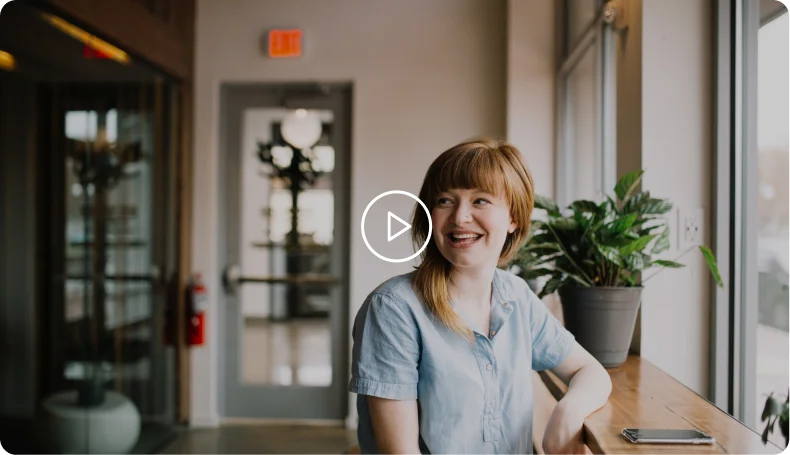
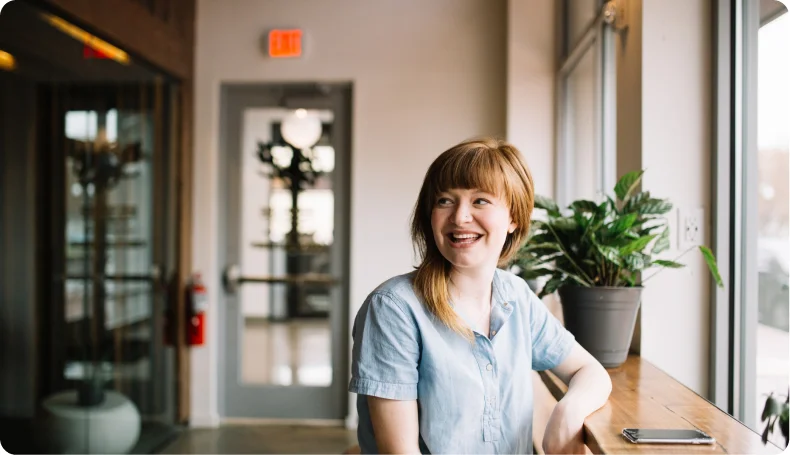
success section

diff --git a/index.html b/index.html
@@ -13,16 +13,15 @@
     <link rel="icon" href="assets/favicon.png" type="image/png" />
     <title>Alivio</title>
   </head>
-     <body>
-      <header class="header" aria-label="header">
-        <div class="container">
-          <div class="header__wrapper">
-            <svg class="logo" aria-label="logo">
-              <use href="assets/sprites.svg#logo-icon"></use>
-           </svg>
+  <body>
+    <header class="header" aria-label="header">
+      <div class="container">
+        <div class="header__wrapper">
+          <svg class="logo" aria-label="logo">
+            <use href="assets/sprites.svg#logo-icon"></use>
+          </svg>
 
-
-           <nav class="header__nav" aria-label="navigation">
+          <nav class="header__nav" aria-label="navigation">
             <ul class="header__nav-list" aria-label="navigation list">
               <li class="header__nav-item">
                 <a href="#" class="header__nav-link">Why Alivio</a>
@@ -37,58 +36,120 @@
                 <a href="#" class="header__nav-link">Pricing</a>
               </li>
             </ul>
-           </nav>
+          </nav>
 
-           <div class="header__actions">
+          <div class="header__actions">
             <button type="button" class="btn btn--signin">Sign In</button>
             <button type="button" class="btn">Start Trial</button>
-           </div>
           </div>
         </div>
-      </header>
+      </div>
+    </header>
 
-        <main>
-          <section class="hero" aria-label="hero section">
-            <div class="container">
-              <div class="hero__content">
-              <h1 class="hero__title">Be aware, Manage well.</h1>
-                <p class="hero__desc" aria-label="main description">Everyone experiences stress in different ways.Let Alivio guide you, in a personalized journal experience, to overcome your stress</p>
-                <button type="button" class="btn">Find Your Way</button>
-              </div>
+    <main>
+      <section class="hero" aria-label="hero section">
+        <div class="container">
+          <div class="hero__content">
+            <h1 class="hero__title">Be aware, Manage well.</h1>
+            <p class="hero__desc" aria-label="main description">
+              Everyone experiences stress in different ways.Let Alivio guide
+              you, in a personalized journal experience, to overcome your stress
+            </p>
+            <button type="button" class="btn">Find Your Way</button>
+          </div>
+        </div>
+      </section>
+
+      <section class="about" aria-label="" about section>
+        <div class="container">
+          <!-- <h3 class="about__subtitle">How it works</h3> -->
+
+          <div class="about__content">
+            <h2 class="about__title">
+              Understand & Release the stress in 3 steps
+            </h2>
+            <p class="about__desc">
+              Alivio offers as many journals it takes, tackling different areas
+              such as anxiety, overwhelmedness, sadness, or anger, and a variety
+              of personal causes, to help you become aware of your emotions, and
+              guide you in how to manage stress.
+            </p>
+          </div>
+
+          <div class="about__cards">
+            <figure class="card" aria-label="fist card">
+              <h3 class="card__title">Personalize</h3>
+              <p class="card__desc" aria-label="first card description">
+                Answer a quick survey about how you express yourself, what
+                causes you stress, and what area would you like to work on. This
+                way, we can fully personalize your journal!
+              </p>
+              <img
+                src="assets/webp/card_1.webp"
+                alt="card image 1"
+                class="card__img"
+              />
+            </figure>
+
+            <figure class="card" aria-label="second card">
+              <h3 class="card__title card__title--second cars__title--right">
+                Write & Understand
+              </h3>
+              <p class="card__desc" aria-label="first card description">
+                Write, draw, reflect, understand. Alivio will guide you through
+                the prompts and will help you manage your stress!
+              </p>
+              <img
+                src="assets/webp/card_2.webp"
+                alt="card image 2"
+                class="card__img"
+              />
+            </figure>
+
+            <figure class="card" aria-label="third card">
+              <h3 class="card__title card__title--third">Alivio!</h3>
+              <p class="card__desc" aria-label="first card description">
+                Now you are aware, and have a way to manage and overcome your
+                own stress. What are you waiting for? Alivio today!
+              </p>
+              <img
+                src="assets/webp/card_3.webp"
+                alt="card image 3"
+                class="card__img"
+              />
+            </figure>
+          </div>
+        </div>
+      </section>
+
+      <section class="success">
+        <div class="container">
+          <div class="success__wrapper">
+            <div class="success__content">
+              <h3 class="success__title">
+                Let's hear about Kayla's success story
+              </h3>
+              <p class="success__desription">
+                See how well Alivio works in a real customer’s life.
+              </p>
+              <button class="btn">Let’s get started</button>
             </div>
-          </section>
 
-          <section class="about" aria-label=""about section>
-            <div class="container">
-              <!-- <h3 class="about__subtitle">How it works</h3> -->
+            <div class="success__content-video">
+              <img
+                src="assets/webp/video_cover.webp"
+                class="success__cover"
+                alt="video cover img"
+              />
 
-              <div class="about__content">
-                <h2 class="about__title">Understand & Release the stress in 3 steps</h2>
-                <p class="about__desc">Alivio offers as many journals it takes, tackling different areas such as anxiety, overwhelmedness, sadness, or anger, and a variety of personal causes, to help you become aware of your emotions, and guide you in how to manage stress.</p>
-              </div>
-
-              <div class="about__cards">
-                <figure class="card" aria-label="fist card">
-                    <h3 class="card__title">Personalize</h3>
-                    <p class="card__desc" aria-label="first card description">Answer a quick survey about how you express yourself, what causes you stress, and what area would you like to work on. This way, we can fully personalize your journal!</p>
-                    <img src="assets/webp/card_1.webp" alt="card image 1" class="card__img">
-                </figure>
-
-                <figure class="card" aria-label="second card">
-                    <h3 class="card__title card__title--second cars__title--right">Write & Understand</h3>
-                    <p class="card__desc" aria-label="first card description">Write, draw, reflect, understand. Alivio will guide you through the prompts and will help you manage your stress!</p>
-                    <img src="assets/webp/card_2.webp" alt="card image 2" class="card__img">
-                </figure>
-
-                <figure class="card" aria-label="third card">
-                    <h3 class="card__title card__title--third ">Alivio!</h3>
-                    <p class="card__desc" aria-label="first card description">Now you are aware, and have a way to manage and overcome your own stress. What are you waiting for? Alivio today!</p>
-                    <img src="assets/webp/card_3.webp" alt="card image 3" class="card__img">
-                </figure>
-              </div>
+              <svg class="success__play-icon" aria-label="play icon">
+                <use href="assets/sprites.svg#play-icon"></use>
+              </svg>
+              <div class="success__gradient"></div>
             </div>
-          </section>
-        </main>
-
-      </body>
+          </div>
+        </div>
+      </section>
+    </main>
+  </body>
 </html>

diff --git a/styles/success.css b/styles/success.css
@@ -1,0 +1,109 @@
+.success {
+    background-color: var(--co-dark-green);
+}
+
+.success__wrapper {
+    padding: 220px 0;
+    display: flex;
+    justify-content: space-between;
+    align-items: start;
+    flex-wrap: wrap-reverse;
+    gap: 40px;
+}
+
+.success__content {
+    margin: 50px 0 0 0;
+    max-width: 550px;
+    display: flex;
+    flex-direction: column;
+    /* justify-content: start;
+    align-items: center; */
+    place-items: start;
+    gap: 20px;
+}
+
+.success__title {
+    color: var(--co-white);
+    font-size: 50px;
+    font-weight: 700;
+}
+
+.success__desription {
+    color: var(--co-white);
+    font-size: 25px;
+    font-weight: 600;
+}
+
+.success__content .btn {
+    margin: 50px 0 0 0;
+    width: 240px;
+    height: 65px;
+}
+
+.success__content .btn:hover {
+    outline: 2px solid var(--co-white);
+}
+
+.success__content-video {
+    max-width: 790px;
+    height: 455px;
+    position: relative;
+    border-radius: 20px;
+    overflow: hidden;
+}
+
+.success__play-icon {
+    width: 100%;
+    height: 100%;
+    object-fit: cover;
+    aspect-ratio: 158/91;
+}
+
+.success__play-icon {
+    position: absolute;
+    z-index: 1;
+    width: 72px;
+    height: 73px;
+    fill: var(--co-white);
+    top: 50%;
+    left: 50%;
+    translate: -50% -50%;
+}
+
+.success__play-icon:hover {
+    fill: var(--co-green);
+    cursor: pointer;
+}
+
+.success__gradient {
+    position: absolute;
+    z-index: 1;
+    inset: 0;
+    background: linear-gradient(180deg, rgba(0, 0, 0, .1), rgba(0, 0, 0, .5)) center/cover no-repeat;
+}
+
+@media (max-width: 1370px) {
+    .success__wrapper {
+        justify-content: center;
+    }
+
+    .success__content {
+        text-align: center;
+        place-items: center start;
+    }
+}
+
+@media (max-width: 576px) {
+    .success__wrapper {
+        padding: 150px 0;
+    }
+
+    .success__title {
+        font-size: 32px;
+    }
+
+    .success__desription {
+        font-size: 20px;
+    }
+
+}

diff --git a/index.css b/index.css
@@ -4,3 +4,4 @@
 @import url('styles/hero.css');
 @import url('styles/about.css');
 @import url('styles/card.css');
+@import url('styles/success.css');
